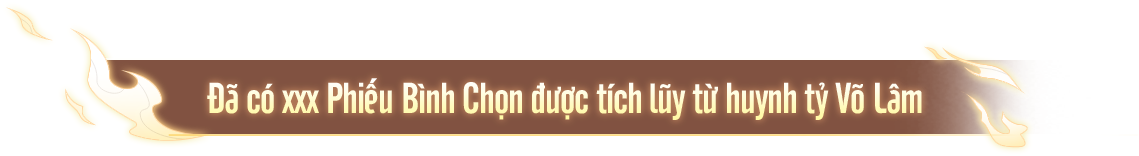
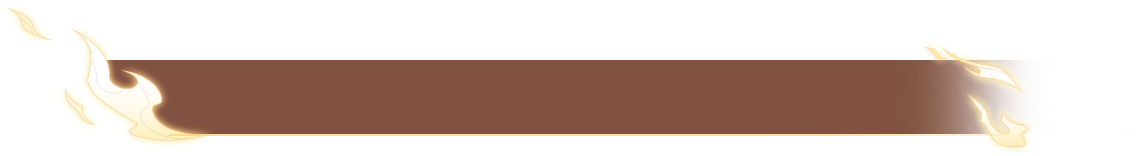
update

Changed region(s): [[0.1536, 0.5128, 0.8297, 0.7692]]

diff --git a/src/component/accumulate.tsx b/src/component/accumulate.tsx
@@ -18,7 +18,9 @@ const Accumulate = () => {
     <div className="relative overflow-x-hidden w-full flex flex-col items-center bg-cover bg-center bg-no-repeat aspect-[1920/1067] mb:aspect-[640/650] mb:bg-[image:var(--bg-mobile-url)] bg-[image:var(--bg-pc-url)]" 
     style={{'--bg-mobile-url': `url(/images/mb-accumulate-bg.jpg)`, '--bg-pc-url': `url(/images/pc-accumulate-bg.jpg)`} as CustomStyleProperties}>
       <img src="/images/accumulate-title.png" alt="" className="-mt-[4%] w-[50%] mb:w-full" />
-      <img src="/images/accumulate-sub-title.png" alt="" className="-mt-[2.5%] mb:-mt-[4%] w-[60%] mb:w-[95%]" />
+      <div className="-mt-[2.5%] mb:-mt-[4%] w-[60%] mb:w-[95%] flex justify-center items-center bg-[url('/images/accumulate-sub-title.png')] aspect-[517/71] bg-no-repeat bg-cover bg-center">
+        <p className="mt-[3%] text-[1.5vw] text-[#FFFBBB]">Đã có xxx Phiếu Bình Chọn được tích lũy từ huynh tỷ Võ Lâm</p>
+      </div>
 
       <div className="mt-[16%] relative w-full px-[26%] mb:mt-[35%] mb:px-[2.5%]">
         {/* Milestone Values */}
